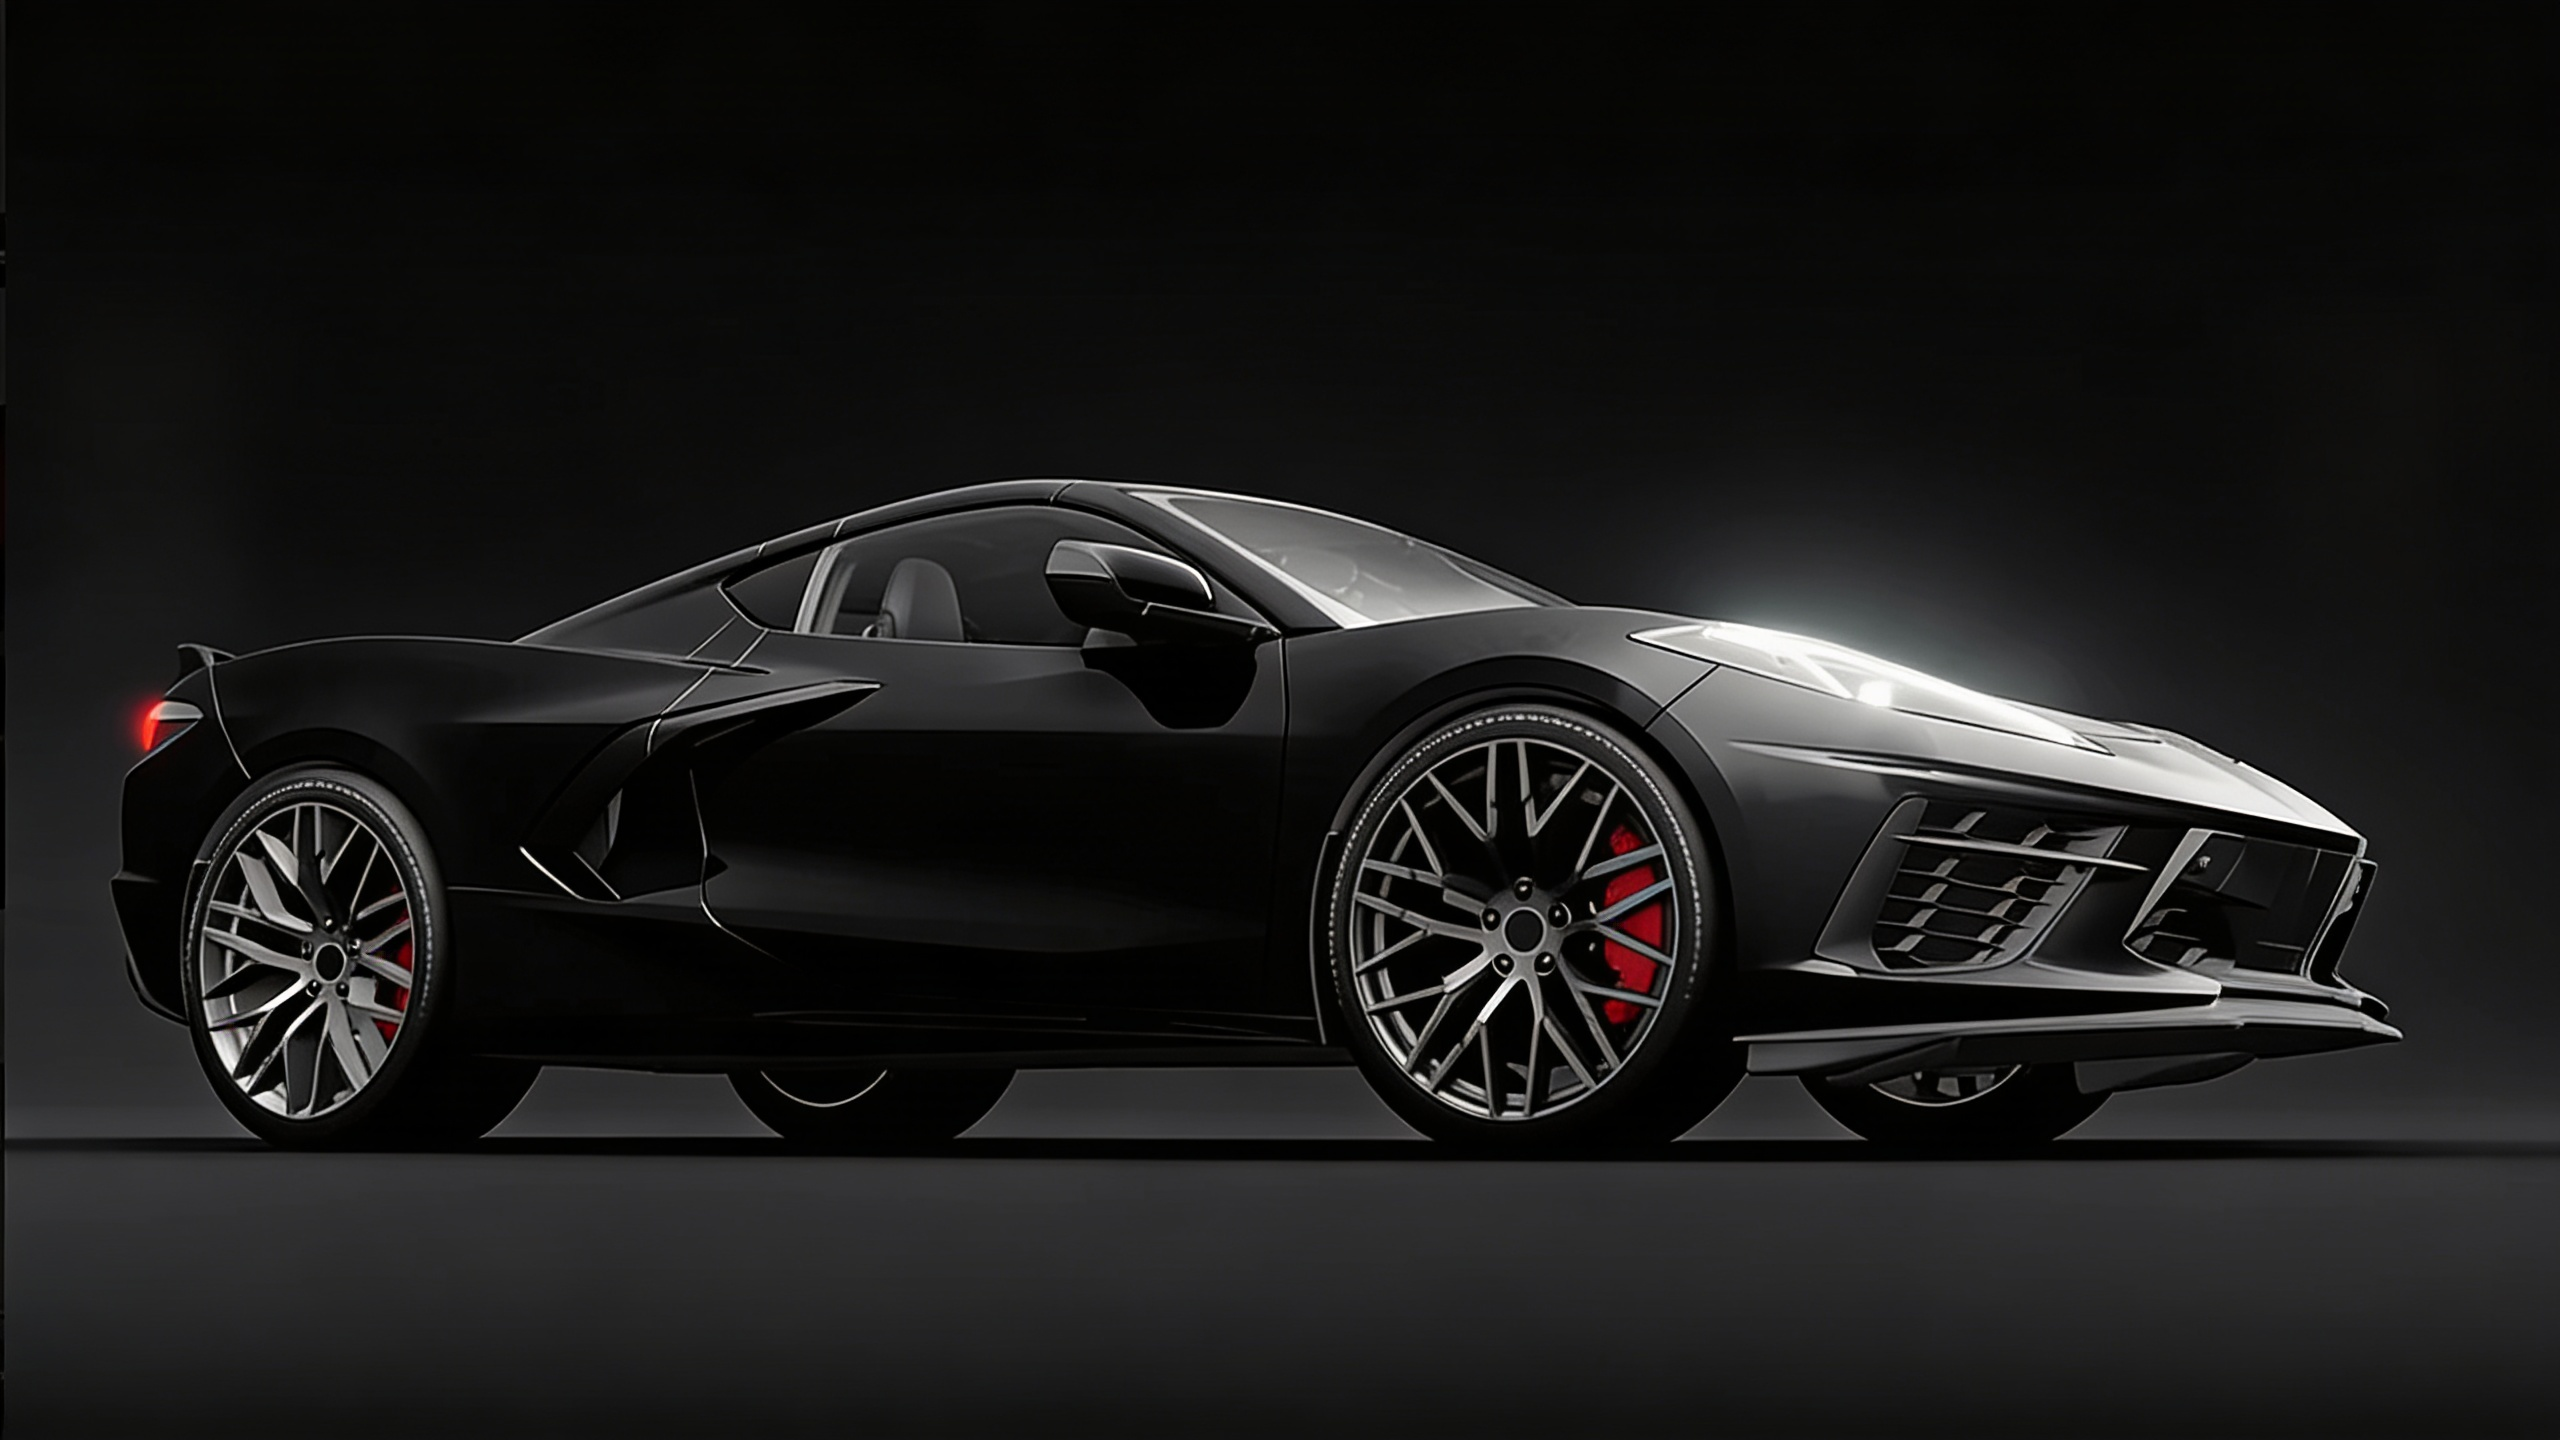
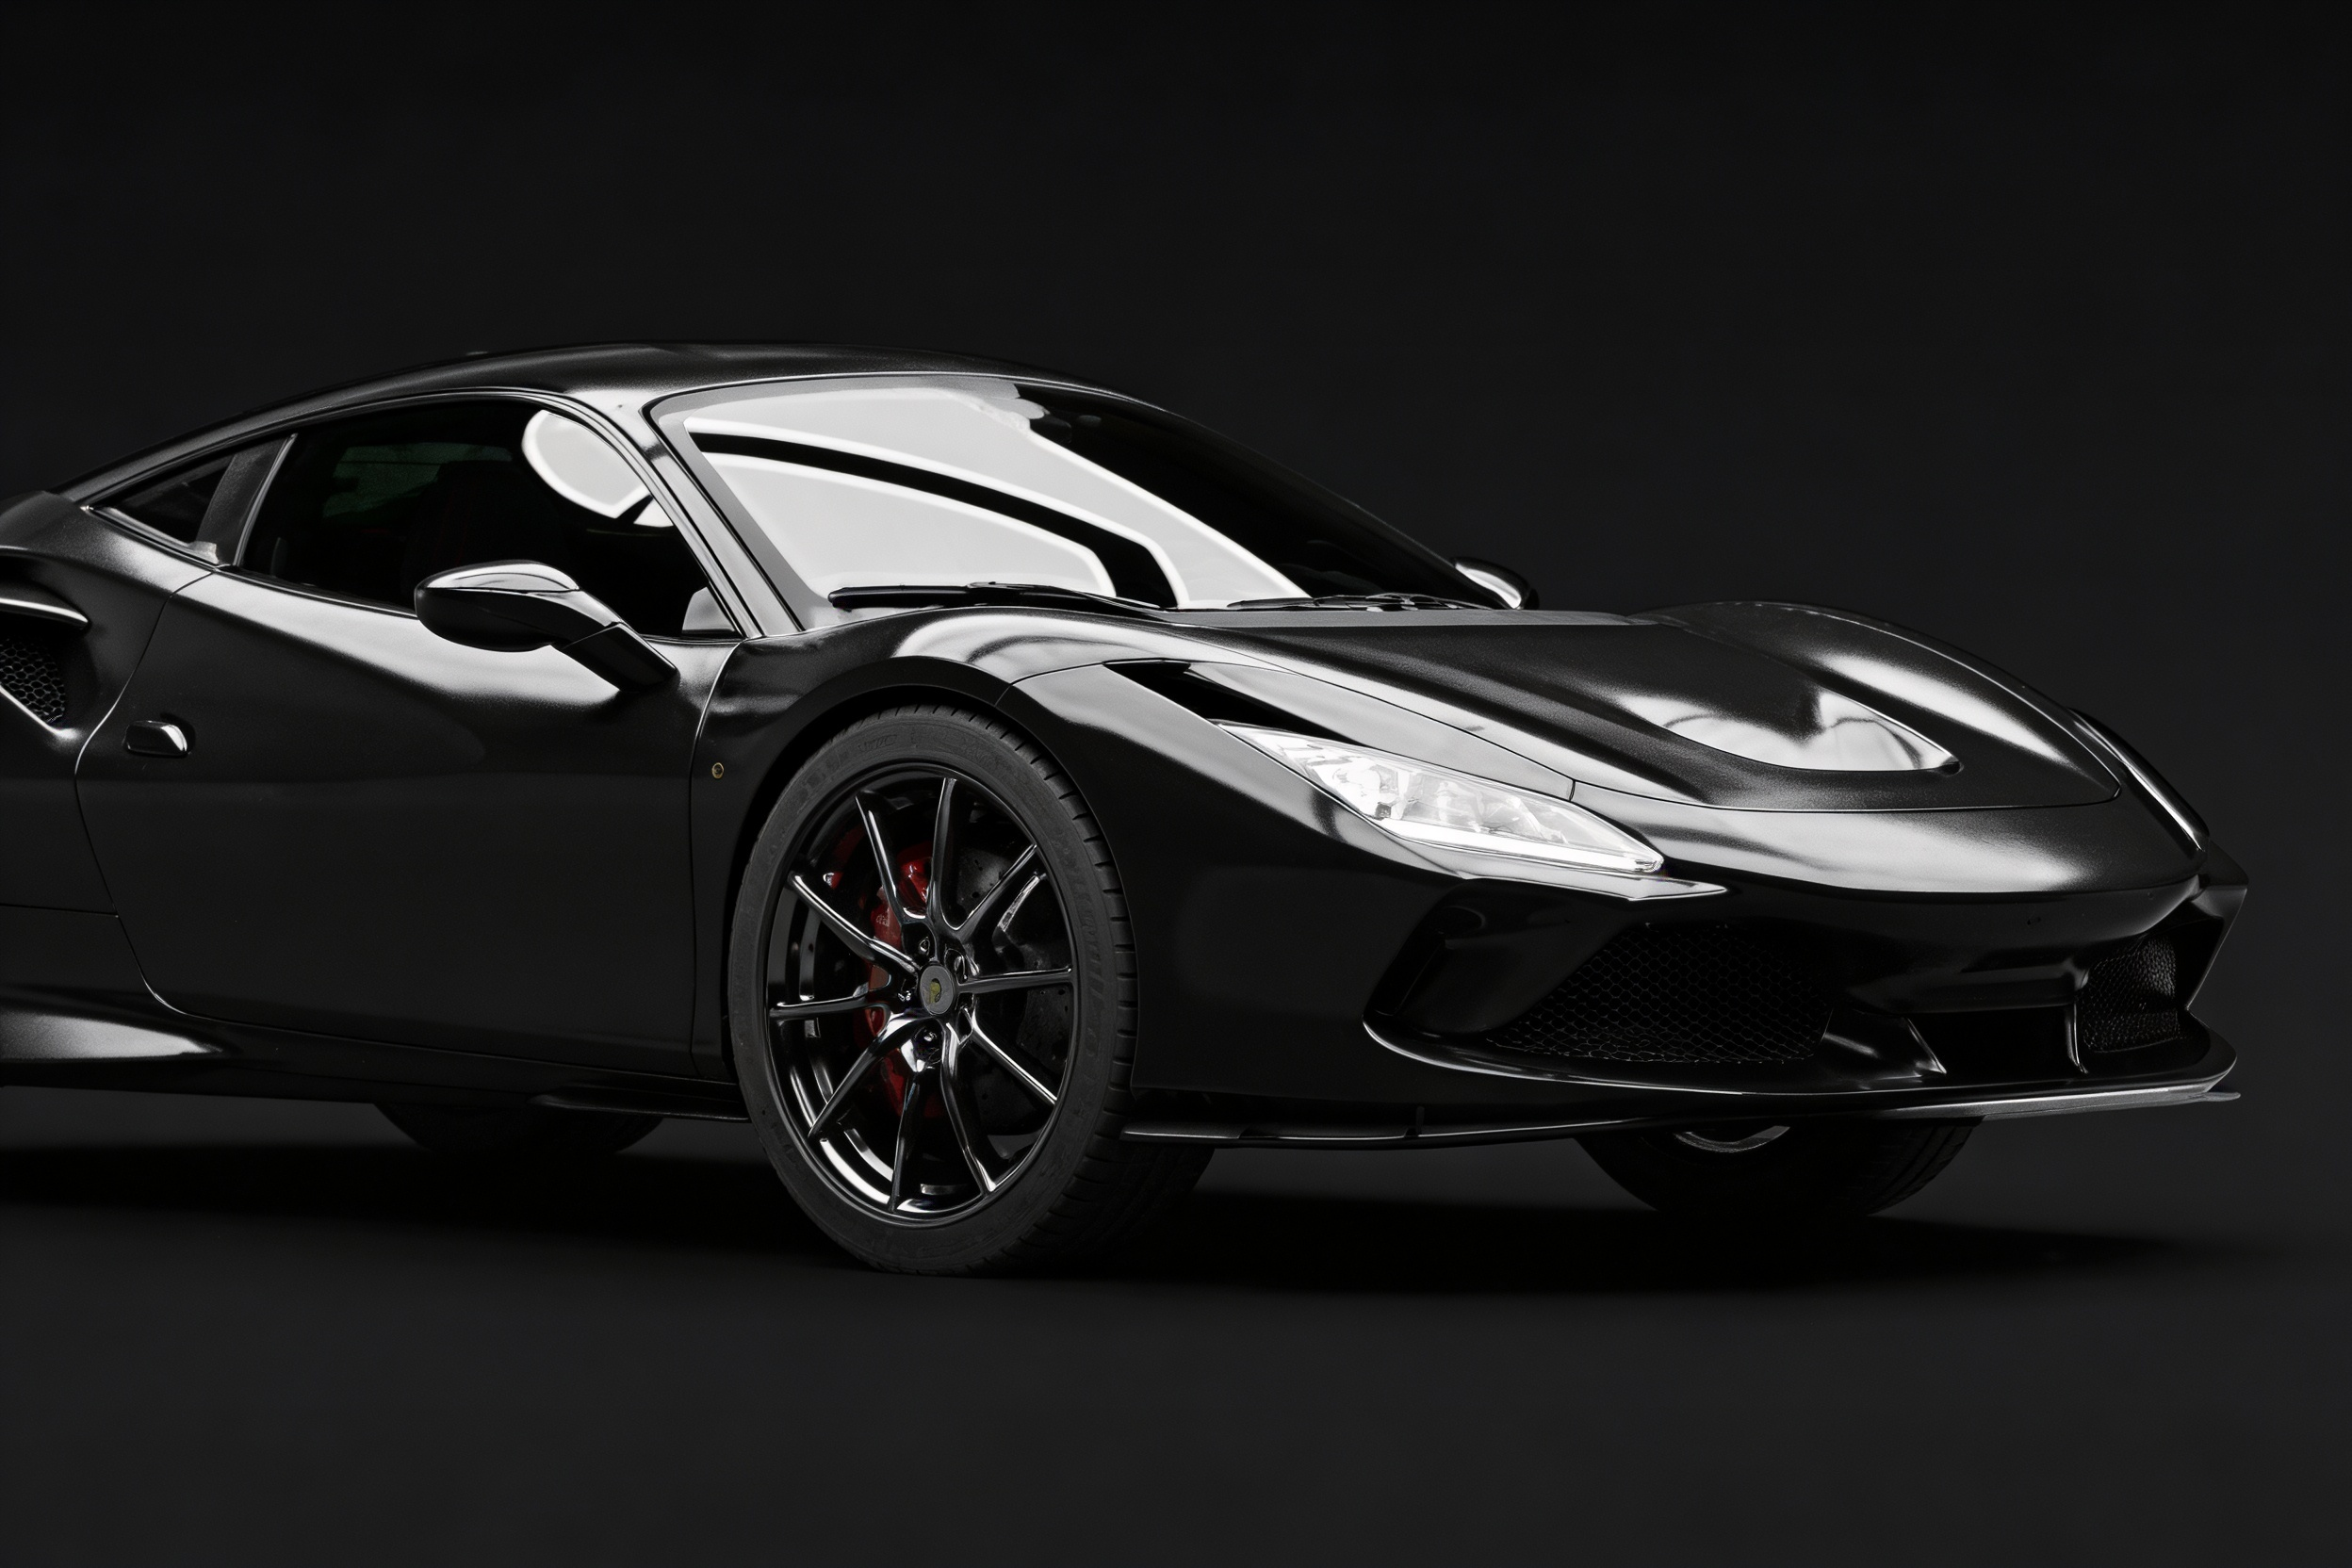
Images

diff --git a/components/home-page/testimonials.tsx b/components/home-page/testimonials.tsx
@@ -1,9 +1,166 @@
+import * as React from "react";
+import Image from "next/image";
+import { MoveUpRightIcon, MoveUpLeftIcon } from "lucide-react";
+import { Card, CardContent } from "@/components/ui/card";
+import {
+  Carousel,
+  CarouselContent,
+  CarouselItem,
+  CarouselNext,
+  CarouselPrevious,
+} from "@/components/ui/carousel";
+
+const logoCard = [
+  {
+    id: 1,
+    name: "Mercedes",
+    image: "/images/mercedes-logo.svg",
+  },
+  {
+    id: 2,
+    name: "Rolls-Royce",
+    image: "/images/rolls-royce-logo.svg",
+  },
+  {
+    id: 3,
+    name: "BMW",
+    image: "/images/bmw-logo.svg",
+  },
+  {
+    id: 4,
+    name: "Lamborghini",
+    image: "/images/lamborghini-logo.svg",
+  },
+  {
+    id: 5,
+    name: "Ferrari",
+    image: "/images/ferrari-logo.svg",
+  },
+  {
+    id: 6,
+    name: "Bently",
+    image: "/images/bently-logo.svg",
+  },
+  {
+    id: 7,
+    name: "Porsche",
+    image: "/images/porsche-logo.svg",
+  },
+];
+
+const avatarCard = [
+  {
+    id: 1,
+    name: "Joseph Vijay",
+    image: "/images/joseph-vijay.png",
+  },
+  {
+    id: 2,
+    name: "Samantha Ruth",
+    image: "/images/samantha-ruth.png",
+  },
+  {
+    id: 3,
+    name: "Mohammed Nizamdeen",
+    image: "/images/mohammed-nizamdeen.png",
+  },
+  {
+    id: 4,
+    name: "Namitha Vankawala",
+    image: "/images/namitha-vankawala.png",
+  },
+  {
+    id: 5,
+    name: "Osama Bin Laden",
+    image: "/images/osama-bin-laden.png",
+  },
+  {
+    id: 6,
+    name: "Adolf Hitler",
+    image: "/images/adolf-hitler.png",
+  },
+  {
+    id: 7,
+    name: "Pooja Hegde",
+    image: "/images/pooja-hegde.png",
+  },
+  {
+    id: 8,
+    name: "Ajith Kumar",
+    image: "/images/ajith-kumar.png",
+  },
+];
+
 export default function TestimonialsSection() {
   return (
-    <section className="min-h-screen flex items-start justify-center relative overflow-hidden bg-black">
-      <h3 className="text-7xl font-bold text-center mt-30">
-        What Our Customers Say
-      </h3>
+    <section className="min-h-screen flex items-start justify-center overflow-hidden bg-black relative">
+      <div className="w-full absolute top-10">
+        <Carousel className="w-full min-w-full sm:max-w-xs md:max-w-sm">
+          <CarouselContent className="-ml-1">
+            {logoCard.map((logo) => (
+              <CarouselItem
+                key={logo.id}
+                className="basis-1/2 pl-1 lg:basis-1/7"
+              >
+                <div className="p-1">
+                  <Card
+                    key={logo.id}
+                    className="group relative flex flex-col justify-between overflow-hidden rounded-2xl border border-white/20 bg-zinc-900 p-6 min-h-70"
+                  >
+                    <div className="absolute inset-0">
+                      <Image
+                        src={logo.image}
+                        alt={logo.name}
+                        fill
+                        className="object-cover object-center p-14"
+                      />
+                    </div>
+                  </Card>
+                </div>
+              </CarouselItem>
+            ))}
+          </CarouselContent>
+        </Carousel>
+      </div>
+      <div className="min-w-7xl absolute items-center justify-center text-center flex flex-col top-1/3 ">
+        <h3 className="text-white text-lg mb-5">What Our Clients Say</h3>
+        <p className="text-white text-4xl font-light w-6xl">
+          "From personalized recommendations to effortless delivery, <br/> LuxeAuto
+          made every step simple, transparent, and <br/> luxurious - {" "}
+          <span className="text-white/50">
+            redefining how premium car buying should feel <br/> for discerning drivers
+            worldwide."
+          </span>
+        </p>
+      </div>
+      <div className="w-full absolute bottom-10">
+        <Carousel className="w-full min-w-full sm:max-w-xs md:max-w-sm">
+          <CarouselContent className="-ml-1">
+            {avatarCard.map((avatar) => (
+              <CarouselItem
+                key={avatar.id}
+                className="basis-1/2 pl-1 lg:basis-1/7"
+              >
+                <div className="p-1">
+                  <Card
+                    key={avatar.id}
+                    className="group relative flex flex-col justify-between overflow-hidden rounded-full border border-white/20 bg-zinc-900 p-6 min-h-60"
+                  >
+                    <div className="absolute inset-0">
+                      <Image
+                        src={avatar.image}
+                        alt={avatar.name}
+                        fill
+                        className="object-fill object-center"
+                      />
+                    </div>
+                  </Card>
+                </div>
+              </CarouselItem>
+            ))}
+          </CarouselContent>
+        </Carousel>
+      </div>
     </section>
   );
 }

diff --git a/components/home-page/our-exclusive.tsx b/components/home-page/our-exclusive.tsx
@@ -1,9 +1,158 @@
+import * as React from "react";
+import { MoveUpRightIcon } from "lucide-react";
+import Image from "next/image";
+import { Card, CardContent } from "@/components/ui/card";
+import {
+  Carousel,
+  CarouselContent,
+  CarouselItem,
+  CarouselNext,
+  CarouselPrevious,
+} from "@/components/ui/carousel";
+
+const carCard = [
+  {
+    id: 1,
+    name: "Lamborghini Revuelto",
+    year: "2024",
+    price: "$620,000",
+    color: "Frozen Silver",
+    colorHex: "#e5e7eb",
+    transmission: "Automatic",
+    image: "/images/lamborghini-revuelto.png",
+  },
+  {
+    id: 2,
+    name: "Ferrari 296 GTB",
+    year: "2024",
+    price: "$370,000",
+    color: "Daytona Gray",
+    colorHex: "#5a5a5a",
+    transmission: "Automatic",
+    image: "/images/ferrari-296-gtb-black.png",
+  },
+  {
+    id: 3,
+    name: "Rolls-Royce Spectre",
+    year: "2024",
+    price: "$465,000",
+    color: "Frozen Silver",
+    colorHex: "#e5e7eb",
+    transmission: "Automatic",
+    image: "/images/rolls-royce-spectre.png",
+  },
+  {
+    id: 4,
+    name: "McLaren 750S",
+    year: "2024",
+    price: "$355,000",
+    color: "Daytona Gray",
+    colorHex: "#5a5a5a",
+    transmission: "Automatic",
+    image: "/images/mclaren-750s.png",
+  },
+  {
+    id: 5,
+    name: "Bently Continental GT Speed",
+    year: "2024",
+    price: "$310,000",
+    color: "Daytona Gray",
+    colorHex: "#5a5a5a",
+    transmission: "Automatic",
+    image: "/images/bently-continental-gt-speed.png",
+  },
+  {
+    id: 6,
+    name: "Porsche 911 Turbo S",
+    year: "2024",
+    price: "$232,000",
+    color: "Python Green",
+    colorHex: "#22c55e",
+    transmission: "Automatic",
+    image: "/images/porsche-911-turbo-s.png",
+  },
+];
+
 export default function OurExclusiveSection() {
   return (
     <section className="min-h-screen flex items-start justify-center relative overflow-hidden bg-black">
-      <h3 className="text-7xl font-bold text-center mt-30">
-        Our Exclusive Section
-      </h3>
+      <div className="min-w-7xl items-center justify-center flex flex-col gap-6 px-6 py-20">
+        <div className="w-2xl text-center">
+          <h2 className="text-white text-5xl font-semibold">
+            Explore Our <br /> Exclusive Collections
+          </h2>
+          <p className="mt-4 text-zinc-300 text-sm">
+            Handpicked excellence from our premium inventory
+          </p>
+        </div>
+      </div>
+      <div className="absolute justify-center items-center flex w-full h-full top-0 left-0">
+        <Carousel
+          opts={{
+            align: "start",
+          }}
+          className="w-full min-w-full sm:max-w-xs md:max-w-sm"
+        >
+          <CarouselContent>
+            {carCard.map((car) => (
+              <CarouselItem className="basis-1/2 lg:basis-1/5">
+                <div className="p-1">
+                  <Card
+                    key={car.id}
+                    className="group relative flex flex-col justify-between overflow-hidden rounded-2xl border border-white/20 bg-linear-to-b from-black from-15% via-gray-400/30 via-50% to-black to-110% bg-white/5 p-6 min-h-112"
+                  >
+                    <div className="absolute inset-0">
+                      <Image
+                        src={car.image}
+                        alt={car.name}
+                        width={400}
+                        height={300}
+                        className="object-cover object-center mt-20"
+                      />
+                    </div>
+                    <div className="relative z-10 mb-4 flex items-center justify-between text-xs">
+                      <div className="inline-flex items-center gap-2 rounded-full border border-white/10 px-3 py-1 text-zinc-300 backdrop-blur-md">
+                        <span
+                          className="size-3 rounded-full ring-2 ring-white"
+                          style={{ backgroundColor: car.colorHex }}
+                        />
+                        {car.color}
+                      </div>
+                      <div className="rounded-full border border-white/10 px-3 py-1 text-zinc-300 backdrop-blur-md">
+                        {car.transmission}
+                      </div>
+                    </div>
+                    <div className="relative z-10 mt-auto flex items-end justify-between">
+                      <div>
+                        <div className="mb-2 inline-flex rounded-full border border-white/10 px-3 py-1 text-xs text-zinc-400 backdrop-blur-md bg-black/20">
+                          {car.year}
+                        </div>
+                        <h3 className="mb-1 font-medium tracking-tight text-white text-2xl w-2/3 drop-shadow-md">
+                          {car.name} {car.year}
+                        </h3>
+                        <p className="font-light text-zinc-200 drop-shadow-md">
+                          {car.price}
+                        </p>
+                      </div>
+                      <button
+                        type="button"
+                        className="flex size-10 shrink-0 items-center justify-center rounded-full border border-white/10 text-white transition-colors backdrop-blur-md bg-black/20"
+                      >
+                        <MoveUpRightIcon className="size-4" />
+                      </button>
+                    </div>
+                  </Card>
+                </div>
+              </CarouselItem>
+            ))}
+          </CarouselContent>
+        </Carousel>
+        <div className="absolute bottom-10 flex items-center justify-center gap-2 pb-6">
+          <button className="bg-transparent border border-yellow-500 rounded-full text-white px-4 py-2 align-middle flex items-center gap-2">
+            View All Cars <MoveUpRightIcon size={18} color="#eab308" />
+          </button>
+        </div>
+      </div>
     </section>
   );
 }

diff --git a/components/inventory/our-collection.tsx b/components/inventory/our-collection.tsx
@@ -31,7 +31,7 @@ const carCard = [
     color: "Frozen Silver",
     colorHex: "#e5e7eb",
     transmission: "Automatic",
-    image: "/images/rolls-royce-spectre.jpg",
+    image: "/images/rolls-royce-spectre.png",
   },
   {
     id: 4,
@@ -41,7 +41,7 @@ const carCard = [
     color: "Daytona Gray",
     colorHex: "#5a5a5a",
     transmission: "Automatic",
-    image: "/images/mclaren-750s.jpg",
+    image: "/images/mclaren-750s.png",
   },
   {
     id: 5,
@@ -51,7 +51,7 @@ const carCard = [
     color: "Daytona Gray",
     colorHex: "#5a5a5a",
     transmission: "Automatic",
-    image: "/images/bently-continental-gt-speed.jpg",
+    image: "/images/bently-continental-gt-speed.png",
   },
   {
     id: 6,
@@ -61,7 +61,7 @@ const carCard = [
     color: "Python Green",
     colorHex: "#22c55e",
     transmission: "Automatic",
-    image: "/images/porsche-911-turbo-s.jpg",
+    image: "/images/porsche-911-turbo-s.png",
   },
 ];
 
@@ -131,8 +131,9 @@ export default function OurCollection() {
                 <Image
                   src={car.image}
                   alt={car.name}
-                  fill
-                  className="object-cover object-center"
+                  width={400}
+                  height={300}
+                  className="object-cover object-center mt-20"
                 />
               </div>
               <div className="relative z-10 mb-4 flex items-center justify-between text-xs">